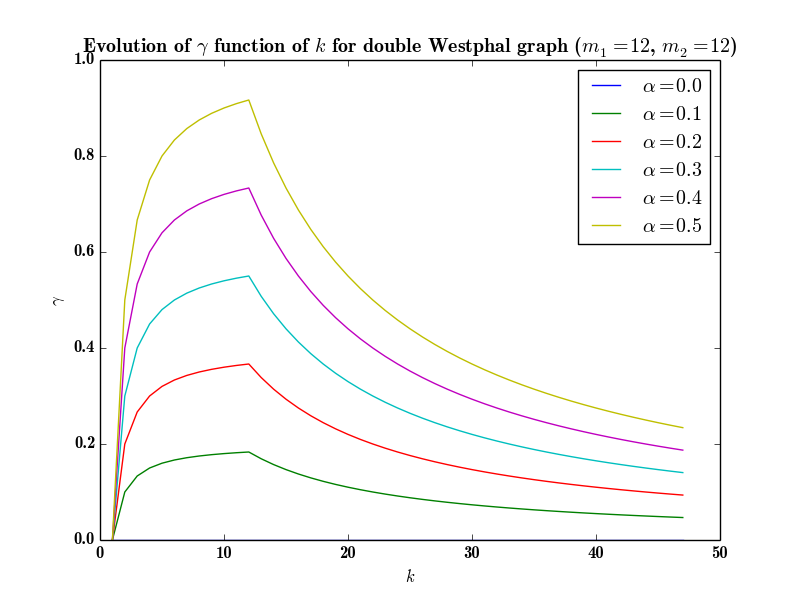
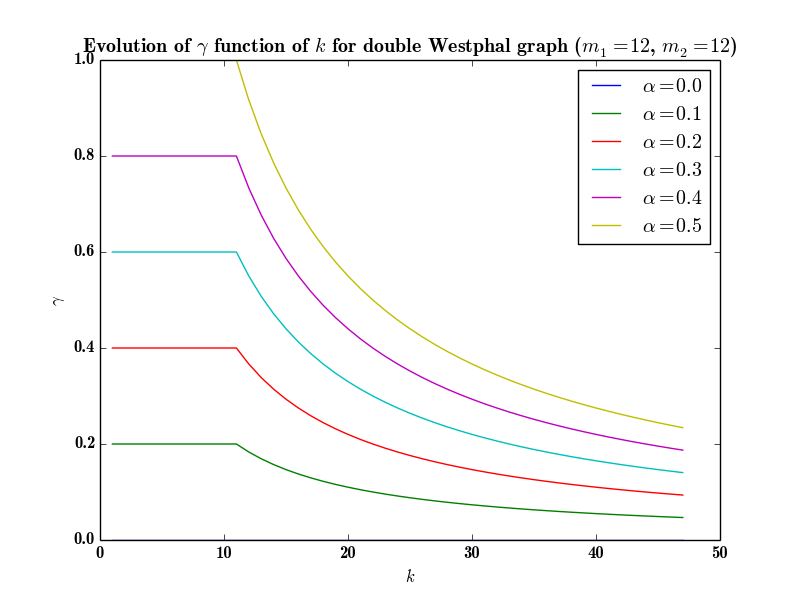
Correction

diff --git a/graph/graph.py b/graph/graph.py
@@ -136,12 +136,12 @@ class Graph:
 				H = max(H, min(self.h1(wTabSV[i], self.wMin, i), self.h2(wTabSV[i], wTabVT[j], self.wMin, i, j)))
 		if(M1 > k):
 			for j in range(1, min(M2, k)+1):
-				H = max(H, min(self.h2(wTabSV[k+1], wTabVT[j], self.wMin, k+1, j), self.h3(wTabSV[k+1], wTabVT[j], self.wMin, k)))
+				H = max(H, min(self.h2(wTabSV[k+1], wTabVT[j], self.wMin, k+1, j), self.h3(wTabSV[k+1]/(k+1), wTabVT[j]/j, self.wMin, k)))
 		if(M2 > k):
 			for i in range(1, min(M1, k)+1):
-				H = max(H, min(self.h1(wTabSV[i], self.wMin, i), self.h3(wTabSV[i], wTabVT[k+1], self.wMin, k)))
+				H = max(H, min(self.h1(wTabSV[i], self.wMin, i), self.h3(wTabSV[i]/i, wTabVT[k+1]/(k+1), self.wMin, k)))
 		if(M1 > k and M2 > k):
-			H = max(H, self.h3(wTabSV[k+1], wTabVT[k+1], self.wMin, k))
+			H = max(H, self.h3(wTabSV[k+1]/(k+1), wTabVT[k+1]/(k+1), self.wMin, k))
 		return (H/k)
 
 	def gammaGraph(self, k):

diff --git a/test.py b/test.py
@@ -13,7 +13,7 @@ import numpy as np
 def gammaFunctionOfK(m1, m2, nbAlpha):
 	xtab = []
 	ytab = []
-	alpha = np.linspace(0.5, 1.0, num=nbAlpha)
+	alpha = np.linspace(0.0, 0.5, num=nbAlpha)
 	for i in alpha:
 		g = DoubleWestphal(m1, m2, i)
 		g.initGraph()
@@ -25,7 +25,7 @@ def gammaFunctionOfK(m1, m2, nbAlpha):
 		ytab.append(y)
 	title = r'Evolution of $\gamma$ function of $k$ for double Westphal graph ($m_1 = ' + str(m1) + r'$, $m_2 = ' + str(m2) + r'$)'
 	label = [r'$\alpha = ' + str(i) + r'$' for i in alpha]
-	printCourb("gammaK/2", xtab, ytab, label, nbAlpha, r'$k$', r'$\gamma$', title)
+	printCourb("gammaK/1", xtab, ytab, label, nbAlpha, r'$k$', r'$\gamma$', title)
 
 # Find the value of gamma function of p, for random graph for which p is 
 # the probability to have an edge between two nodes
